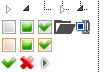
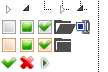
improved styles

Changed region(s): [[0.5, 0.5278, 0.6667, 0.7222]]

diff --git a/main/core/www/css/jstree-themes/default/style.css b/main/core/www/css/jstree-themes/default/style.css
@@ -10,15 +10,16 @@
 .jstree-default li.jstree-last { background:transparent; }
 .jstree-default .jstree-open > ins { background-position:-72px 0; }
 .jstree-default .jstree-closed > ins { background-position:-54px 0; }
+.jstree-default li.jstree-closed a > ins { background-position:-54px -36px; }
 .jstree-default .jstree-leaf > ins { background-position:-36px 0; }
 
 .jstree-default .jstree-hovered { background:#e7f4f9; border:1px solid #d8f0fa; padding:0 2px 0 1px; }
 .jstree-default .jstree-clicked { background:#beebff; border:1px solid #99defd; padding:0 2px 0 1px; }
-.jstree-default a .jstree-icon { background-position:-56px -19px; }
-.jstree-default a > ins { width: 20px; }
+.jstree-default a .jstree-icon { background-position:-54px -19px; }
+.jstree-default a > ins { width: 22px; }
 .jstree-default a.jstree-loading .jstree-icon { background:url("/data/images/ajax-loader.gif") center center no-repeat !important; }
 
-.jstree-default.jstree-focused { background:#ffffee; }
+/* .jstree-default.jstree-focused { background:#ffffff; } */
 
 .jstree-default .jstree-no-dots li, 
 .jstree-default .jstree-no-dots .jstree-leaf > ins { background:transparent; }
